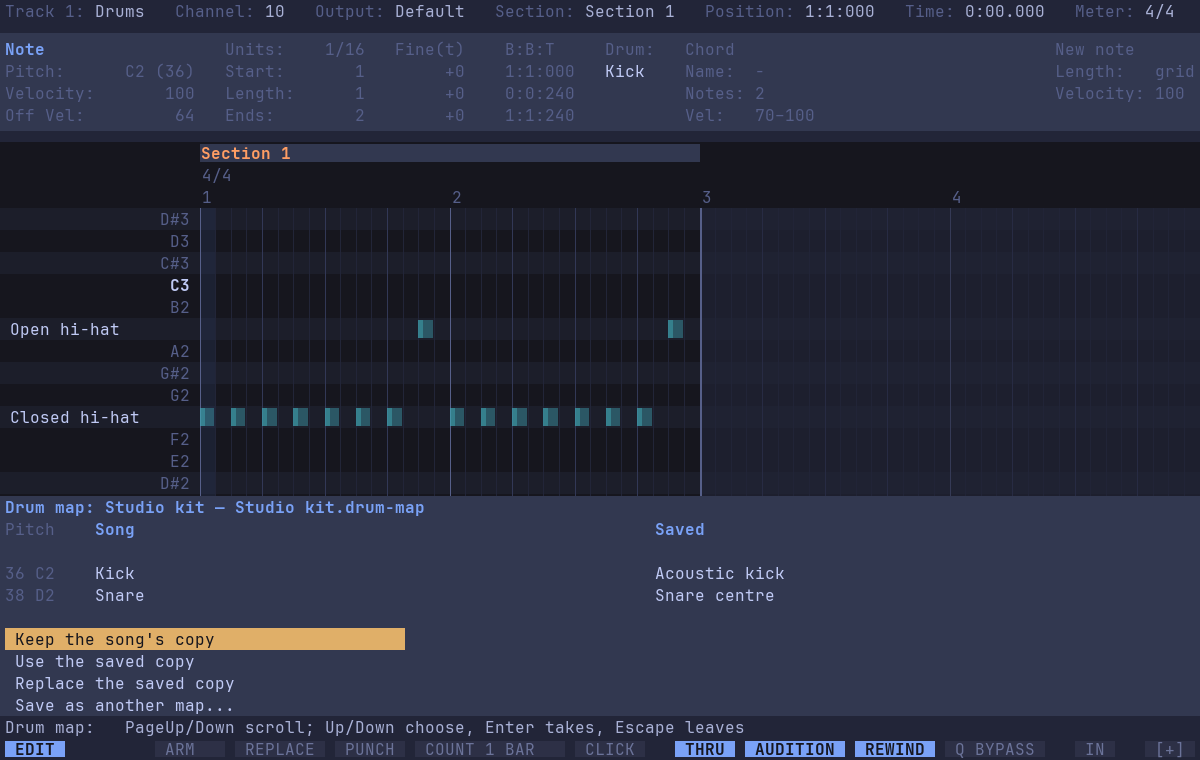
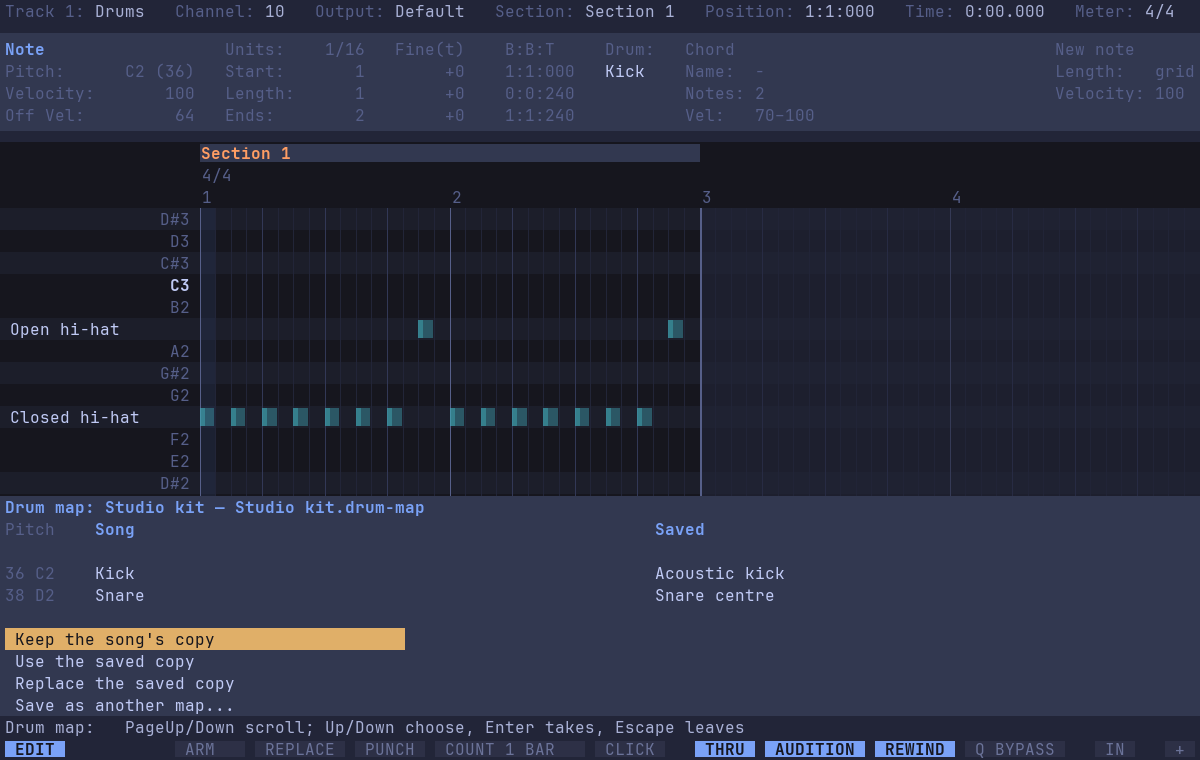
Show unsaved changes as a single + on the status line
The chip's background does the brackets' work, and it takes two cells less.
The window title keeps [+]. The two drum-map figures, drawn wide enough to
show it, are redrawn.

Changed region(s): [[0.4933, 0.9684, 0.9867, 0.9987], [0.1233, 0.9684, 0.4625, 0.9987]]

diff --git a/tests/ui/status_bar_test.cpp b/tests/ui/status_bar_test.cpp
@@ -64,7 +64,7 @@ TEST_CASE("status presentation keeps mode panels equally wide without a transpor
     CHECK_FALSE(contains(region, U"STOP"));
     CHECK_FALSE(contains(region, U"BPM"));
     CHECK(contains(region, U"ARM"));
-    CHECK(contains(region, U"[+]"));
+    CHECK(contains(region, U" + "));
     const auto bar = statusBar(state, 2200, kCell);
     REQUIRE(bar.left.size() == 2);
     CHECK(decodeUtf8(bar.left[0].text + bar.left[1].text).size() == 9);
@@ -208,15 +208,15 @@ TEST_CASE("status presentation shows setting toggles and input loss without owni
     CHECK(field(render(state), U" IN ").style.background == Role::Warning);
 }
 
-TEST_CASE("status presentation keeps [+] in its place, lit only with unsaved changes, no file")
+TEST_CASE("status presentation keeps + in its place, lit only with unsaved changes, no file")
 {
     StatusBarState state;
     const auto saved = render(state);
     state.modified = true;
     const auto modified = render(state);
-    CHECK(field(saved, U"[+]").style.background == Role::Indicator);
-    CHECK(field(modified, U"[+]").style.background == Role::Warning);
-    CHECK(field(saved, U"[+]").x == field(modified, U"[+]").x);
+    CHECK(field(saved, U" + ").style.background == Role::Indicator);
+    CHECK(field(modified, U" + ").style.background == Role::Warning);
+    CHECK(field(saved, U" + ").x == field(modified, U" + ").x);
     CHECK(field(saved, U" IN ").x == field(modified, U" IN ").x);
     CHECK_FALSE(contains(saved, U"No file"));
 }
@@ -224,7 +224,7 @@ TEST_CASE("status presentation keeps [+] in its place, lit only with unsaved cha
 TEST_CASE("status presentation preserves the order of width compromises at pixel boundaries")
 {
     auto state = stateWithTransport();
-    const std::array<std::u32string_view, 9> parts{U"[+]",   U"Introduction", U"REPLACE",
+    const std::array<std::u32string_view, 9> parts{U" + ",   U"Introduction", U"REPLACE",
                                                    U"THR",   U"Intro",        U" IN ",
                                                    U" 4/4 ", U" BPM",         U"PUNCH"};
     std::array<bool, 9> disappeared{};

diff --git a/src/ui/status_bar.cpp b/src/ui/status_bar.cpp
@@ -40,7 +40,7 @@ Bar statusBar(const StatusBarState& state, int width, CellSize cell)
     bottom.left.push_back(
         {std::string(std::string_view{" NORMAL "}.size() - mode.size() + 1, ' '), kBarText});
     // Where the window's too narrow for everything, what's least needed gives way first, in
-    // steps (decided 12 November 2026): [+], first as the file's name was (decided 25 November
+    // steps (decided 12 November 2026): +, first as the file's name was (decided 25 November
     // 2026, the title bar showing it too, so the smallest usual window keeps what it kept); the
     // section cut short, short words for the indicators, the settings, the section, the input
     // light, the meter and the tempo; and last the punch range's indicator (decided 24 November
@@ -226,11 +226,11 @@ Bar statusBar(const StatusBarState& state, int width, CellSize cell)
         }
         if (stage < Stage::HideModified)
         {
-            // [+] for changes not saved, as in Vim, dim when there are none, so it's always in
-            // its place (decided 25 November 2026, when the file's name left the line for the
-            // title bar and Ctrl-g).
+            // + for changes not saved, as Vim's [+], the chip doing the brackets' work; dim when
+            // there are none, so it's always in its place (decided 25 November 2026, when the
+            // file's name left the line for the title bar and Ctrl-g, and + after use).
             gap();
-            indicator("[+]", "[+]", 3, 3, state.modified ? Lit::Warning : Lit::Off, Role::Warning);
+            indicator("+", "+", 1, 1, state.modified ? Lit::Warning : Lit::Off, Role::Warning);
         }
         // No space after the last.
         if (!segments.empty() && segments.back().text == " ")

diff --git a/tests/ui/event_list_view_test.cpp b/tests/ui/event_list_view_test.cpp
@@ -185,7 +185,7 @@ TEST_CASE("the event list opens on track 1, at its first row")
     CHECK(xOf(v.ws.frame()[2], U"Position") == position);
     type(v.ws, U"gg");
 
-    // The status line's [+] is lit once the song has changes not saved, where it's wide enough;
+    // The status line's + is lit once the song has changes not saved, where it's wide enough;
     // the file's name is on the title bar and Ctrl-g.
     v.ws.resize(200 * kCell.width, 24 * kCell.height, kCell);
     CHECK_FALSE(contains(bottomText(v.ws.frame()), U"No file"));
@@ -193,7 +193,7 @@ TEST_CASE("the event list opens on track 1, at its first row")
     {
         for (const auto& region : v.ws.frame())
             for (const auto& run : region.text)
-                if (run.text.find(U"[+]") != std::u32string::npos)
+                if (run.text == U" + ")
                     return run.style.background;
         return Role::Bar;
     };

diff --git a/tests/ui/transport_test.cpp b/tests/ui/transport_test.cpp
@@ -2138,8 +2138,8 @@ TEST_CASE("the status line gives way in a narrow window, the least needed first,
     p.document.edit("Rename section", {},
                     [](core::Song& song) { song.renameSection(0, "Introduction"); });
     // What gives way, in the order it goes.
-    p.document.edit("Change", {}, [](core::Song& song) { song.title = "Changed"; }); // [+] lit
-    const std::array<std::u32string_view, 9> parts{U"[+]",   U"Introduction", U"REPLACE",
+    p.document.edit("Change", {}, [](core::Song& song) { song.title = "Changed"; }); // + lit
+    const std::array<std::u32string_view, 9> parts{U" + ",   U"Introduction", U"REPLACE",
                                                    U"THR",   U"Intro",        U" IN ",
                                                    U" 4/4 ", U" BPM",         U"PUNCH"};
     const auto shown = [&](int columns)

diff --git a/docs/design.md b/docs/design.md
@@ -552,7 +552,7 @@ The command language stays flat: no variables, conditionals or loops. If program
 - **Completion at the prompt, as built in milestone 6 (October 2026).** Each command says what kind its arguments are (`choices`: a command, a setting, a theme role, a port, a file from the current directory or from the config directory, a section, a meter, a note length; the third holding for any after it, as `set` takes settings one after another), and each kind has one source of choices: the workspace's own for commands, sections, roles, ports, meters and lengths, the program's for settings (with their values, theme names for `theme`, `on`/`off`, or the value now) and files. Tab works as zsh's does (decided October 2026, rather than Vim's, which jumps to the first match): the first completes the word as far as its matches agree, showing them in a panel above the prompt as the hint menu is shown, none chosen even when it can go no further (so `:` then Tab lists every command and typing narrows them; decided October 2026, after use); after that Tab goes round them and Shift-Tab back, the one chosen in the cursor's colours; a single match is completed with a space after it, unless it goes on (a setting's name, a folder's `/`). A setting completes to its name alone, so `?`, `=` or `!` can follow, and Tab again on a whole name (no other's start) goes on to its values, as `name=` does (changed November 2026, from completing to `name=`, after use). A word matches the choices starting with it, ignoring case, or if none, those with a word starting with it (`del` finds `bar-delete`); fuzzy matching is the palette's. Commands read as actions on what they act on (decided October 2026, after use): `note-default` became `default-note-set`, `section-strip` `go-section-strip` (beside `go-first`), and `:section NAME` `:section-split NAME`, which splits the section at the cursor's bar line rather than making new time; `section-split` sits beside `section-rename`, and `port`, `grid` and `len` stay as they are, setting a value or showing it as Vim's options do. Files complete as paths (November 2026): from the folder a relative path starts from, which the popup names on a dim top line, `In` and the folder (the song's folder for songs' files, the config directory for the config's); or absolute, or from `~`; with `\` separating folders on Windows as well as `/`, a folder completing with the separator typed last; and in quotes when the word is or any choice has a space, a folder's left open, the quotes keeping the spaces in one word. Only commands that do something where the cursor is are offered, nor are the arguments of one that doesn't; while the matches show, Down and Up go round them as Tab and Shift-Tab do, Left and Right go across the columns and Page Down and Up a screen (stopping at the ends), so the line's cursor doesn't move then, and typing or deleting in the word narrows or widens them to what's typed, none chosen, until the word ends or nothing matches; more columns than fit across scroll to keep the one chosen in view, a ◀ or ▶ at the side with more (decided October 2026, after use). A command run where it does nothing says where it's for ("Note default is for the piano roll"), rather than that it isn't in the view, which read as if it were missing. Pick lists for a command run without an argument it needs, and parameters' defaults, come with the palette and the transforms.
 - **Prompts on a row of their own (decided November 2026, after use).** Nothing covers the status line, whose transport stays in view. The `:` prompt, search's `/`, a question's answer and the palette's line each go on a row of their own just above it, starting at the left edge, the status line still showing the mode the prompt was opened from. **The palette** follows Doom Emacs's M-x: its line at the top, the matches below it, the best first, or sections, tracks and labels in song order from the top, so Down (and Ctrl-n) goes on to the next and Up (and Ctrl-p) back, and Home and End go to the first and last. It's always as high, `palettelines` matches (10 by default, fewer if the window is small), blank rows below fewer matches, so its line stays put as they narrow; the line shows at its right how many match, or the one chosen among them (`3/12`). Typing keys finds what they're bound to, so the palette also answers what a key does: `, b i` or `gv` finds its command. **Keys with modifiers (agreed 25 November 2026, not yet built).** A key typed in angle brackets also finds the same key with any modifiers, so `<Space>` finds `<S-Space>` and `<C-Space>` as well as `<Space>`, and a key's name typed alone, `Space`, finds them too; an exact key still ranks first. Until then a key matched only from its start, so `<C-Space>` couldn't be found by its name. **Completion's matches** at the `:` prompt are a small popup instead of a panel of columns, since completion is lighter than the palette: just above the word being completed, starting over its first character, as wide as the longest match, up to ten high and scrolling beyond, with the first match nearest the line. Up goes on through them and Down back, as they look, stopping at the ends: from none chosen, Up takes the one nearest the line and Down the top one shown, where the eye starts (revised after use, when Down from none went back round to the last match, far off, and the list jumped there); Shift-Tab from none also starts at the top one shown, and Tab still goes round. Page Up and Down go a popup's worth, and a ▲ or ▼ shows where there are more. This replaces the columns going across with Left and Right, described above.
 - **The status line's indicators (decided 12 November 2026, the first step of rearranging the status line).** The right of the status line is a row of indicators, each a word in a block, always in its place and as wide whatever it says: dim (`indicator-text` on `indicator`) when off, and lit in its own theme colour when on, so a setting is seen at a glance and learnt by where it is rather than appearing and disappearing. In groups, left to right: recording, `ARM` (`ARM 2` with two tracks armed, lit red), `REPLACE` or `OVERDUB`, `PUNCH`, lit in the recording colour while a punch range is armed, the count-in (`COUNT 1 BAR`, `PRE 2 BARS`, `COUNT 3 BEATS`, `NO COUNT`), lit while tracks are armed, and `CLICK`, lit when the click will sound (always, or with tracks armed while recording or for a count-in) and in the warning colour when it has nowhere to go; the settings, `THRU`, `AUDITION` and `REWIND`, lit when on, and `Q BYPASS`, dim, or in the warning colour while bypassed; then the `IN` light with the last message in; then the file's name. Within a group they're a cell apart, and the groups three cells apart, so the groups read as such (revised 12 November 2026, after use). Where the window's too narrow for everything (only what keeps its length is on the status line, everything else being on the message row), what's least needed gives way first, in steps (decided 12 November 2026): the file's name; the input's last message; the section, cut short to six characters with `…`; short words for the indicators (`REPL`, `CNT 1`, `CLK`, `THR`, `AUD`, `RWD`, `QBY`); the settings; the section; the `IN` light; the meter; the tempo; and last `PUNCH` (decided 24 November 2026, when it was added, so the narrowest window still keeps what it kept before). The mode, the transport's state, place and time, and the rest of the recording group always stay; in a window narrower still, the line is cut at its end.
-  - **A shorter line (agreed and built 25 November 2026).** With every indicator shown the line was nearly full at size 14 on a large display, and more indicators are coming (`LOOP`, then takes and cueing), so room is made without changing how the indicators look. The file's name leaves the status line: the window's title bar shows the title and file, and `Ctrl-g` (`file-info`, as Vim's) says the song's title, file, whether it's modified and its length on the message row, for a full-screen window. Unsaved changes stay on the status line as a fixed `[+]` chip, lit in the warning colour while there are any, as they concern the song in every view. Built: it gives way first in a narrow window, where the file's name did, as the title bar shows `[+]` too and the smallest usual window (120 columns) would otherwise lose the settings and the section to it (decided while building). `IN` becomes the light alone, flashing as input arrives and in the warning colour on input loss; the last message in moves to the Ports view (see Ports). `LOOP` joins the recording group beside `PUNCH`, the two ranges together. Single-letter settings (`T A R Q`) were considered and rejected: unlike Mute, Solo and Arm, they can't be guessed. The configurable status line stays a separate, later step: the line should hold every indicator gracefully without it.
+  - **A shorter line (agreed and built 25 November 2026).** With every indicator shown the line was nearly full at size 14 on a large display, and more indicators are coming (`LOOP`, then takes and cueing), so room is made without changing how the indicators look. The file's name leaves the status line: the window's title bar shows the title and file, and `Ctrl-g` (`file-info`, as Vim's) says the song's title, file, whether it's modified and its length on the message row, for a full-screen window. Unsaved changes stay on the status line as a fixed `+` chip (`[+]` as Vim writes it until tried, the chip's background doing the brackets' work, decided after use), lit in the warning colour while there are any, as they concern the song in every view. Built: it gives way first in a narrow window, where the file's name did, as the title bar shows `[+]` too and the smallest usual window (120 columns) would otherwise lose the settings and the section to it (decided while building). `IN` becomes the light alone, flashing as input arrives and in the warning colour on input loss; the last message in moves to the Ports view (see Ports). `LOOP` joins the recording group beside `PUNCH`, the two ranges together. Single-letter settings (`T A R Q`) were considered and rejected: unlike Mute, Solo and Arm, they can't be guessed. The configurable status line stays a separate, later step: the line should hold every indicator gracefully without it.
 - **The message row (decided 12 November 2026, the second step of rearranging the status line).** A row of its own above the status line, always there (`message-line`, the bar's colour in the built-in themes, so the two rows are one band and only the status line's fields are light), so nothing ever covers the view for a moment and what's said has one place: a message, in its colour, a warning marked at the row's left edge too, until the next key; or else what's going on, a hint while a field is edited, what an operator waiting will do, the Visual selection, the freeze choice's or a track move's keys; and at its right, keys waiting, the search and its count, and `recording @a`. The `:` prompt is typed on it, as in Vim, where its answer then shows; the palette's matches stand on it, with its line above them. The status line under it holds only what keeps its length, so nothing said moves it. The view is a row shorter for it.
 - **Long messages (decided October 2026).** A message too long for the message row, with what's beside it, is shown whole, wrapped at its words, in a panel just above the row in its colour, until the next key, rather than cut off with no way to read the rest on a small screen; the row leaves it out then.
 - **Status bar.** Built from named segments (mode, position, tempo, time signature, key, loop/punch, record state, MIDI activity, pending keys, message), each with a format string, arranged left and right in configuration, like a Vim or Doom Emacs modeline.

diff --git a/docs/grammar.md b/docs/grammar.md
@@ -176,7 +176,7 @@ With `gn`, an operator changes the next match and moves on to the one after; `.`
 
 **Drum maps:** Enter on Drum map in Tracks, `, t k` (kit) or `:drum-map` opens a chooser for this track: None, General MIDI, reusable `.drum-map` files and its embedded copy. Type to narrow, Up/Down choose, Enter takes and Escape leaves. The piano roll uses 20 cells for drum names and the inspector shows the full name beside the pitch and MIDI number; unnamed rows keep pitch labels. Choosing a map undoes once. `:drum-map-load FILE` and `:drum-map-save FILE` take relative paths in `drum-maps/` beside `modalrc`, adding `.drum-map` to a filename without an extension; no FILE opens the file picker. The chooser flags differences from saved maps of the same internal name and reviews their Song/Saved pitch names, PageUp/Down scrolling. Keep leaves both, Use replaces this track's map as one undo step, Replace writes over the reviewed file, and Save as another asks for a new name and filename, renaming this track's copy only after saving. Duplicate saved names require choosing a file. `:drum-map-save! FILE` reviews a differing existing file before replacement; a same-name load reviews differences too. File writes are outside song undo.
 
-`:e FILE` opens a song or switches to its open copy. `:new` adds an untitled song. `:song-select` lists open songs by name and location, with unsaved edits marked. Type to narrow, use Up/Down to choose, Enter to switch, and Escape to cancel. `:song-close[!]` closes the current song, with `!` to discard unsaved edits. `:q` (or `:qa`) checks every open song and `:wq` saves the active song before checking the rest. `:wa` (`:write-all`) saves every song with unsaved edits, those with files at once and then each new one in turn, shown and asked for a file in the picker; `:wqa` (or `:xa`) does the same and then quits. `:song-open-copy FILE` opens a copy of a song file as a new song without a file. `:song-save-as` (alias `:saveas`) saves to another file, opening the picker with the current name suggested when no FILE is given; the song then belongs to the new file. `]f` and `[f` (or Ctrl-Tab and Ctrl-Shift-Tab, `:song-next` and `:song-previous`) switch to the next and previous open song in the chooser's order, going round at either end; a count steps that many songs, and the message row names the song reached and its place. Returning to a song brings back the view it was left in, each view's place, its Backspace history, `''`, `gv` and its play-from marker. `Ctrl-g` (`:file`, as Vim's) says the song's title, its file with `~` for the home folder, whether it's modified and its length in bars and time, the status line showing only `[+]`.
+`:e FILE` opens a song or switches to its open copy. `:new` adds an untitled song. `:song-select` lists open songs by name and location, with unsaved edits marked. Type to narrow, use Up/Down to choose, Enter to switch, and Escape to cancel. `:song-close[!]` closes the current song, with `!` to discard unsaved edits. `:q` (or `:qa`) checks every open song and `:wq` saves the active song before checking the rest. `:wa` (`:write-all`) saves every song with unsaved edits, those with files at once and then each new one in turn, shown and asked for a file in the picker; `:wqa` (or `:xa`) does the same and then quits. `:song-open-copy FILE` opens a copy of a song file as a new song without a file. `:song-save-as` (alias `:saveas`) saves to another file, opening the picker with the current name suggested when no FILE is given; the song then belongs to the new file. `]f` and `[f` (or Ctrl-Tab and Ctrl-Shift-Tab, `:song-next` and `:song-previous`) switch to the next and previous open song in the chooser's order, going round at either end; a count steps that many songs, and the message row names the song reached and its place. Returning to a song brings back the view it was left in, each view's place, its Backspace history, `''`, `gv` and its play-from marker. `Ctrl-g` (`:file`, as Vim's) says the song's title, its file with `~` for the home folder, whether it's modified and its length in bars and time, the status line showing only `+`.
 
 **File picker:** `:e`, `:w` and `:wq` when a filename is needed, and the drum-map file commands and `:write-config` without a filename. Up/Down select, Enter opens the selected file or enters a directory, and `../` goes up. Type to narrow or enter a path, with Tab to complete and cycle names. Alt-Down opens Places, and Escape backs out. For a save, Enter with no input accepts the suggested filename. `y` confirms overwriting, while `n` or Escape resumes the picker.
 

diff --git a/docs/status.md b/docs/status.md
@@ -18,7 +18,9 @@ Manual: the first-session chapter's status-line and Ports view descriptions, the
 
 **Validation.** Status bar tests: `[+]` dim and lit in one place, no file name, no input message, and the order things give way (`[+]` first) at every width in both the presentation and the Workspace narrow-window tests. Workspace tests: `Ctrl-g` for a new song, a titled modified one, one saved under home (`~`), one outside it, and an import; the input light alone in every view, expiring; the event list's `[+]`. A Player test keeps two inputs' last messages apart, found by name, a note-off leaving the note shown. A Ports view test shows each input's message on its own row under Last in. MSVC Debug passes all 1,316 tests with two MIDI-dependent skips. Clang Debug in WSL builds without warnings and passes 1,317 with three. Whole-tree formatting and `git diff --check` pass. Both manual formats build with `tools/build-manual.cmake`.
 
-**Pending.** Desktop trial; then the hosted checks after pushing.
+**After trial.** The status line, `Ctrl-g`, the `IN` light and Last in were liked on trial. `[+]` became a single `+`, the chip's background doing the brackets' work and taking two cells less; the window title keeps `[+]`. The status bar and Workspace tests now look for ` + `; of the figures, only the two drum-map pictures, drawn wider, show it, and were redrawn. MSVC Debug passes all 1,316 tests with two MIDI-dependent skips. Formatting passes and both manual formats build.
+
+**Pending.** Trying the `+`; then the hosted checks after pushing.
 
 **To try.** In a window around 120 columns, the status line ends `IN` then nothing: widen it and `[+]` appears at the right, lit after an edit, dim after `u`. `Ctrl-g` in a saved song, after an edit, and in a new one. `gm` for the Ports view: play on each keyboard or controller and watch **Last in** on its row; the status line's `IN` flashes alone.
 
